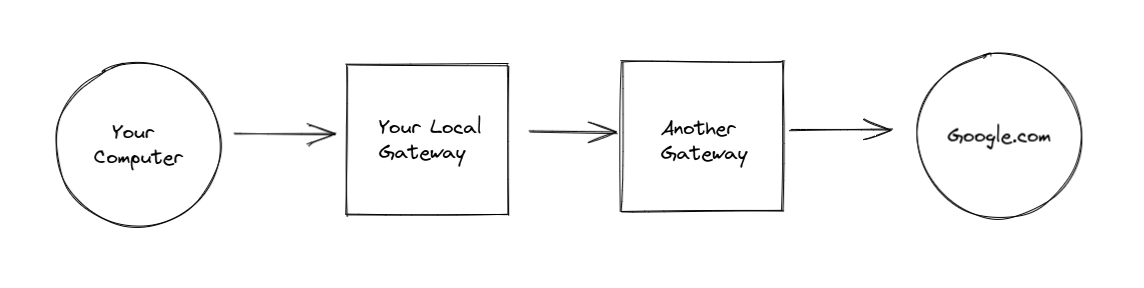
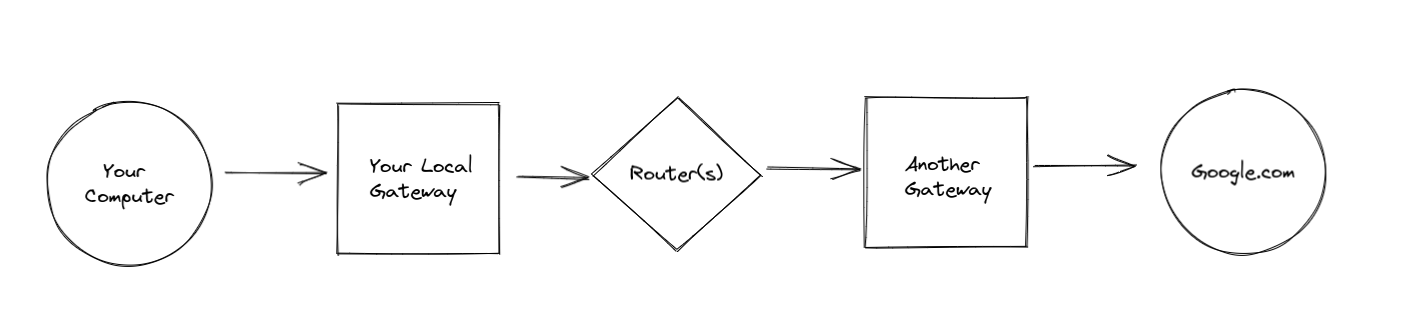
Latest

diff --git a/_sass/minima/_base.scss b/_sass/minima/_base.scss
@@ -272,7 +272,7 @@ img.album {
   height: 400px;
   border-radius: 10px;
   transition: transform .3s;
-  margin: 80px;
+  margin: 20px;
 }
 
 img.album:hover {

diff --git a/_posts/2022-03-30-how-does-ping-work.md b/_posts/2022-03-30-how-does-ping-work.md
@@ -4,7 +4,15 @@ title: "How does Ping work?"
 category: networking
 ---
 
-Underneath the hood, `ping` issues ICMP Echo Requests and waits for Echo Replies.
+I've always had this vague notion that `ping` checks for connectivity between two hosts and it "operates on layer 3."  But what does that actually mean and how does it work?
+
+After some digging, here's the TL;DR:
+
+<br />
+
+```
+Ping issues ICMP Echo Requests and waits for Echo Replies.
+```
 
 <br />
 
@@ -13,23 +21,28 @@ Underneath the hood, `ping` issues ICMP Echo Requests and waits for Echo Replies
 ICMP stands for Internet Control Message Protocol.  It's a layer 3 protocol that network devices use to tell each other stuff like:
 
 <br />
-> Hey, I know you wanted to talk to 192.168.0.5, but I can't find where they are right now
+> "Hey are you real and alive?"
+  "Yup, I'm here and can hear you!"
+
+or
+
+> "Hey, I know you wanted to talk to 192.168.0.5, but I can't find where they are right now"
 
 <br />
 
-To understand this a bit more, let's take a step back and talk about the internet.  Whenever a network device talks to another, like when your computer talks to Google.com, it does so through a series of routers and gateways.
+To understand this a bit more, let's take a step back and talk about the internet.  Whenever a network device talks to another, like when your computer talks to Google.com, it does so through a series of routers and gateways.  Packets originate from a source network device, or host, and are forwarded from gateway/router to gateway/router until that packet reaches its destination.
 
 ![Gateway diagram](/assets/images/posts/ping3.png)
 
-Gateways usually talk with each other, but sometimes they talk with the source hosts as well.  They do this in order to report errors -- the language in which this reporting is done is ICMP.
-
-There are several ICMP message types.  Ping uses the types `Echo Request` and `Echo Reply`.
+During this forwarding process, sometimes things go wrong.  For example, a packet might reach a gateway, only for it to realize that it can't keep forwarding that packet because the destination IP doesn't exist.  In cases like these, that gateway sends back an "error" -- in the form of an ICMP Destination Unreachable message.
 
 <br />
 
-### What are Echo Requests and Replies?
+### Other ICMP Message Types
 
-An `Echo Request` is a type of ICMP message.  A network device sends this as a "hello, are you there?" message to another device.
+There are other types of ICMP messages.  Ping uses the types `Echo Request` and `Echo Reply`, which are messages exchanged between two hosts (and not gateways/routers).
+
+A network device sends an `Echo Request` as a "hello, are you there?" message to another device.
 
 ![Echo Request Diagram](/assets/images/posts/ping1.png)
 
@@ -40,6 +53,40 @@ According to ICMP's specification, the other device should respond with an `Echo
 <br />
 
 ### Diving Deeper
+
+With all of these things in mind, let's ping something!
+
+<br />
+
+![Ping Terminal Screenshot](/assets/images/posts/ping-terminal.png)
+
+<br />
+
+We can see here that:
+  * We ping'd `Google.com`
+  * We ping'd twice (or looks like it)
+
+
+<br />
+Looking at [WireShark](https://www.wireshark.org/), we see that 4 packets were sent back and forth between our machine (`192.168.0.178`) and Google's server (`142.250.188.238`).
+
+<br />
+
+![Ping Wireshark Results](/assets/images/posts/ping-wireshark-result.png)
+
+<br />
+
+The first packet is an ICMP Echo Request packet from our machine to Google.  The second packet is an ICMP Echo Reply from Google to our machine.  The next two correspond to our second ping.
+
+<br />
+
+### No Time to Die
+
+If you were wondering what `ttl` represents in `ping`'s output, the WireShark output sheds a bit of light on this.  Notice that in the first packet, the `ttl` is `64`.  In the reply packet, the `ttl` is `57`.  `ttl` stands for `Time to Live`, but in this context its better to think of it as "number of hops" -- in fact, ipv6 renames `ttl` to `hop_limit`.
+
+Each time a gateway or router recieves an IP packet, it decrements the `ttl` field by `1` before forwarding it on.  Packets that have `ttl = 0` are dropped.
+
+So, for our `ping`ing of Google, we know that we "hopped" `64 - 57` = `7` times.
 
 <br />
 
